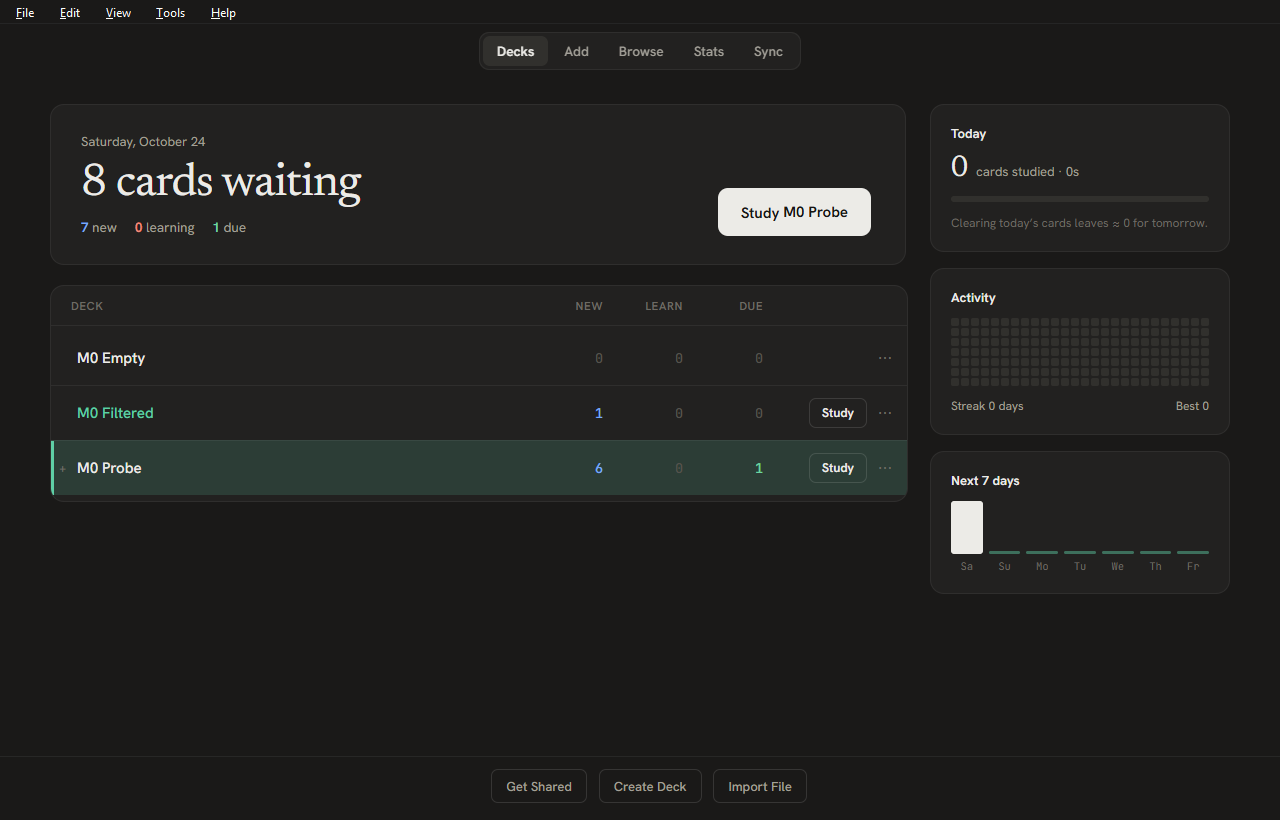
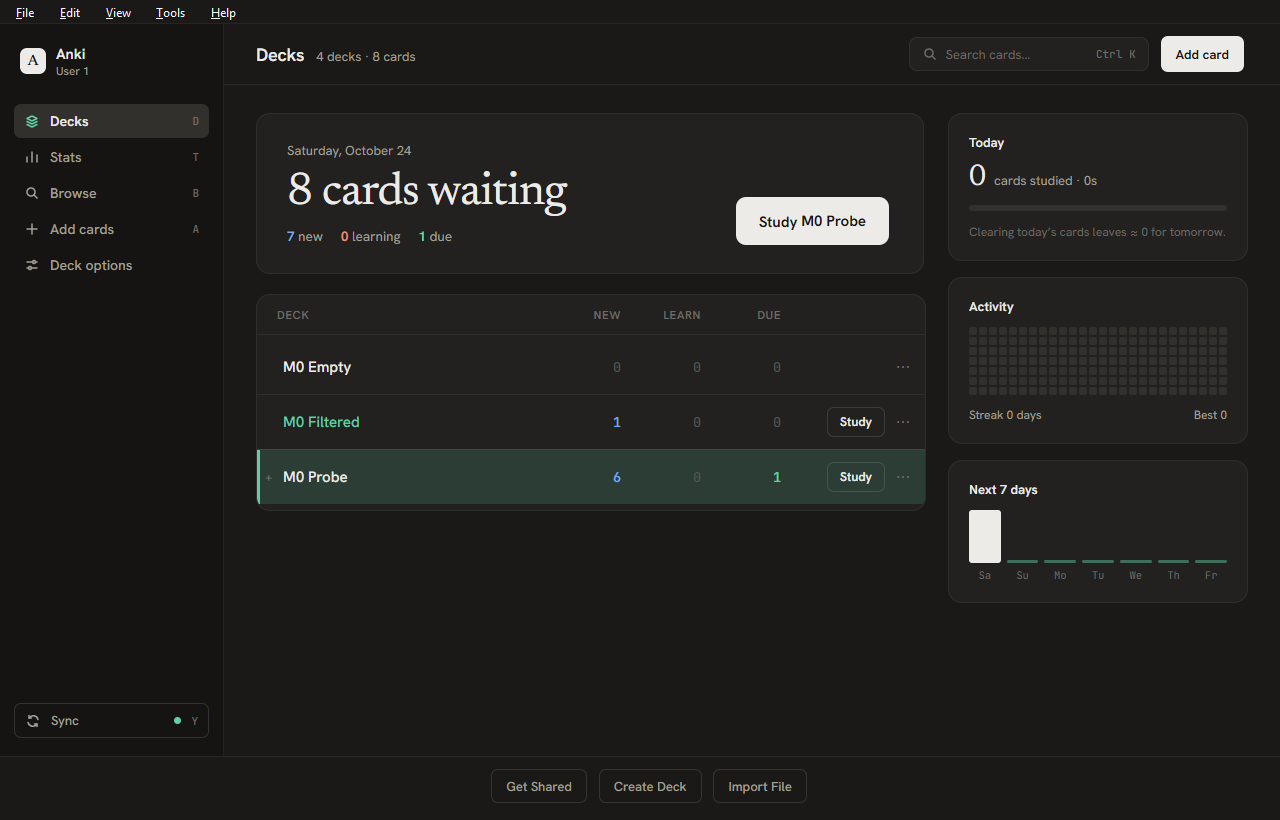
Release 0.2.0: sidebar navigation, Statistics in the main window
Package installed via Anki's installer on the official 26.09.3 build with
a copy of real data: no errors, Stats opens in-window from sidebar and T
with no extra windows and no layout overflow. Docs, changelog,
screenshots updated; build test reads the version from the manifest.

diff --git a/tests/unit/test_build.py b/tests/unit/test_build.py
@@ -42,7 +42,10 @@ class BuildTests(unittest.TestCase):
         shutil.rmtree(cls.tmp, ignore_errors=True)
 
     def test_name(self):
-        self.assertEqual(self.out1.name, "refine-0.1.0.ankiaddon")
+        import json
+
+        manifest = json.loads((ROOT / "src" / "refine" / "manifest.json").read_text("utf-8"))
+        self.assertEqual(self.out1.name, f"refine-{manifest['human_version']}.ankiaddon")
 
     def test_root_files_no_top_folder(self):
         self.assertIn("__init__.py", self.names)

diff --git a/src/refine/config.md b/src/refine/config.md
@@ -11,6 +11,8 @@ The friendlier way to change these is **Tools ▸ Refine ▸ Settings…**. Edit
   - `overview`: the screen shown after you click a deck.
   - `reviewer`: the review screen and its answer bar.
   - `qt_chrome`: menus, scrollbars and other native widgets.
+  - `pages`: Statistics, Deck Options and the "finished this deck" screen use Refine's colours and fonts.
+  - `sidebar`: left sidebar and header on Home, Overview and Stats, with Statistics shown inside the main window. Off brings back the classic top toolbar and the Stats window.
 - `reviewer.ease_colors` (true/false, default true): colour the Again / Hard / Good / Easy buttons.
 - `home`: panels on the home screen (all default to true):
   - `hero`: the "cards waiting" headline with the Study button.
@@ -21,7 +23,6 @@ The friendlier way to change these is **Tools ▸ Refine ▸ Settings…**. Edit
 - `cards`: optional card-content polish, both off by default:
   - `japanese`: Japanese font for text your note type marks as Japanese (`lang="ja"`) and tidier furigana. Your note type's styling still wins.
   - `furigana_hover`: hide furigana until you hover it or reveal the answer (needs `japanese`).
-- `surfaces.pages`: Statistics, Deck Options and the "finished this deck" screen use Refine's colours and fonts.
 - `schema_version`: internal; do not edit.
 
 If a screen misbehaves, set its entry under `surfaces` to false. Refine also does this by itself if a screen raises an error.

diff --git a/README.md b/README.md
@@ -17,6 +17,7 @@ Refine is an add-on for Anki Desktop that gives the home screen, deck overview, 
   - **Today**: cards studied and time spent, with a progress bar and a note about what is left for tomorrow.
   - **Activity**: a 26-week heatmap of reviews per day, with your current and best streak.
   - **Next 7 days**: a forecast of cards due each day.
+- **Sidebar navigation** like the design: Decks, Stats, Browse, Add cards, Deck options and Sync on the left, with a search and Add card header. **Statistics opens inside the main window** instead of a separate one. Can be turned off in Settings.
 - A **Study** button on every deck row with cards waiting, and a welcome with next steps when the collection is still empty.
 - Restyled **deck list**, **deck overview**, **top toolbar**, **reviewer answer bar** (optional ease colours on the Again / Hard / Good / Easy buttons), the card **browser**'s table and sidebar, and Qt menus and scrollbars.
 - **Optional, off by default: Japanese reading polish** for card content: a proper Japanese font for text your note type marks as Japanese (`lang="ja"`), tidier furigana, and furigana shown only on hover or on the answer side. Your note type's own styling always takes precedence.

diff --git a/CHANGELOG.md b/CHANGELOG.md
@@ -2,6 +2,12 @@
 
 All notable changes to Refine are documented here. The format follows [Keep a Changelog](https://keepachangelog.com/en/1.1.0/) and the project uses [Semantic Versioning](https://semver.org/) (0.x = beta).
 
+## [0.2.0] - 2026-10-24
+
+### Added
+- **Sidebar navigation** (on by default, "Sidebar navigation" in Settings): a left sidebar on Home, Overview and Stats with Decks, Stats, Browse, Add cards, Deck options (with shortcut hints), links other add-ons add to the toolbar, and Sync; plus a header with the screen title, a card search (opens the Browser; Ctrl+K focuses it) and Add card. Anki's top toolbar is hidden on these screens and comes back while reviewing. Narrow windows get an icon rail.
+- **Statistics inside the main window** (sidebar, the T key and the toolbar's Stats link), with a Save PDF button. It uses the same trusted page type as Anki's Stats window, so Anki's security rules for the main window are unchanged. Turn the sidebar off to get the separate Stats window back.
+
 ## [0.1.0] - 2026-10-24
 
 First installable build. Visual direction from the "Anki Revamp" design: warm neutrals, jade accent, Hanken Grotesk / Newsreader / JetBrains Mono (bundled, SIL OFL).
